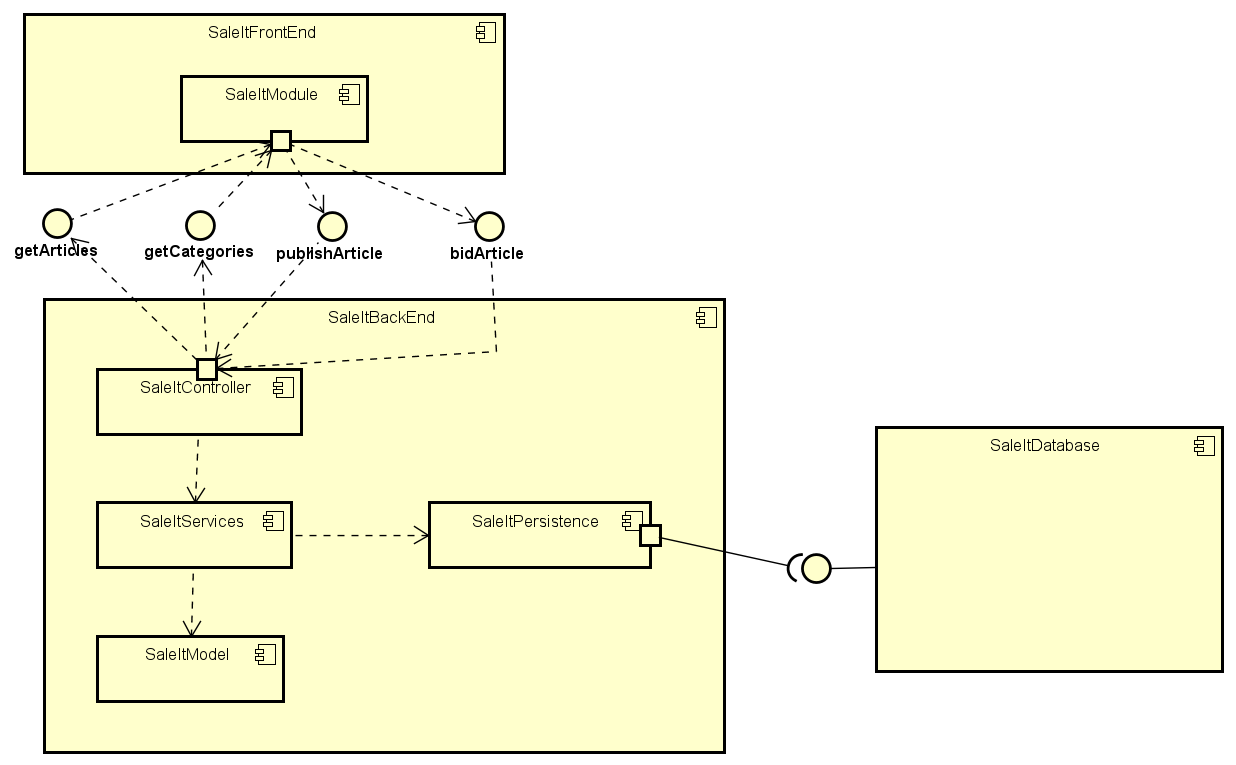
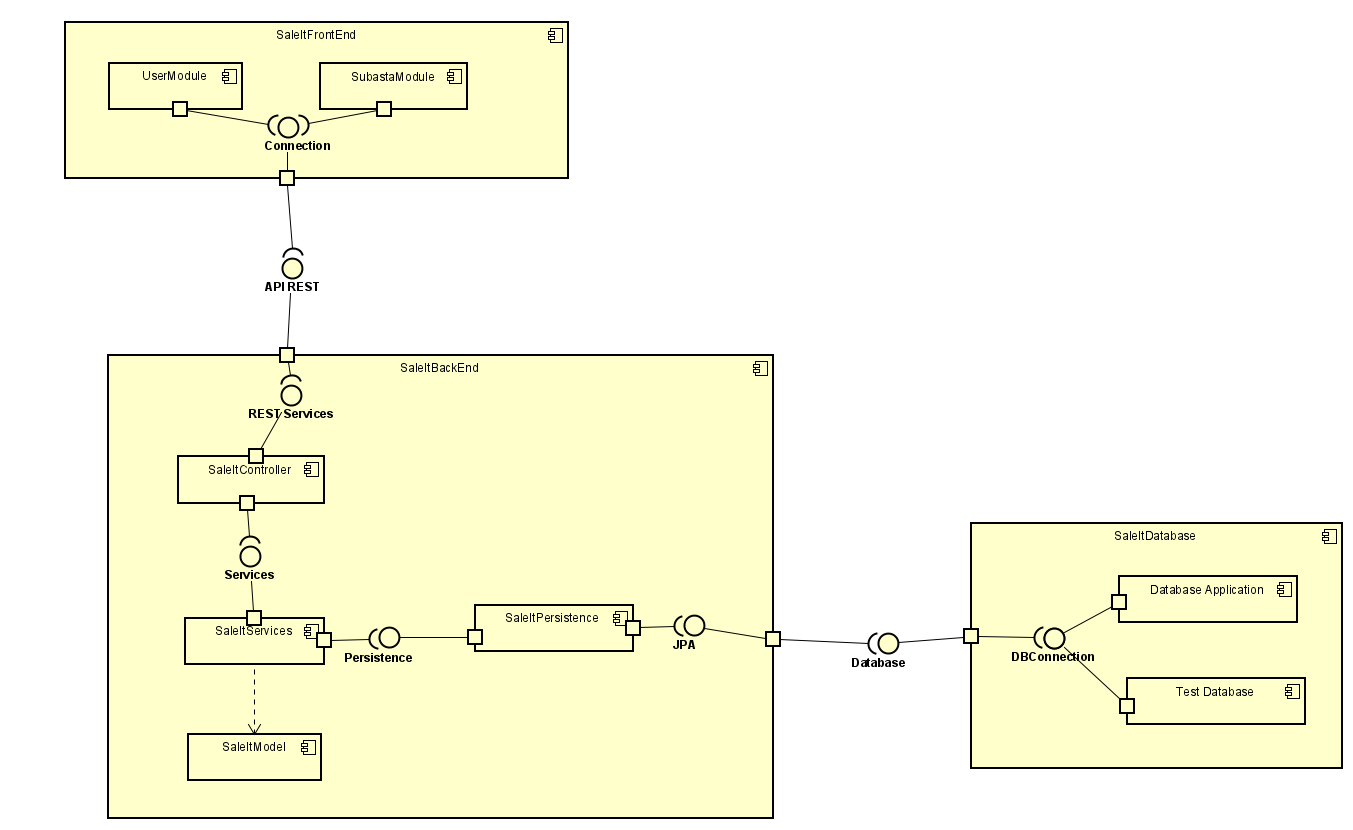
dependencia de h2 y diagrama de despliegue corregido

diff --git a/src/test/java/edu/eci/arsw/saleit/SaleItServicesTest.java b/src/test/java/edu/eci/arsw/saleit/SaleItServicesTest.java
@@ -1,17 +1,36 @@
 package edu.eci.arsw.saleit;
 
+import edu.eci.arsw.saleit.model.TipoDeDocumento;
+import edu.eci.arsw.saleit.model.Usuario;
+import edu.eci.arsw.saleit.services.SaleItServices;
+import edu.eci.arsw.saleit.services.SaleItServicesException;
 import org.junit.Test;
 import org.junit.runner.RunWith;
 import org.springframework.beans.factory.annotation.Autowired;
 import org.springframework.beans.factory.annotation.Qualifier;
+import org.springframework.boot.test.autoconfigure.jdbc.AutoConfigureTestDatabase;
 import org.springframework.boot.test.context.SpringBootTest;
+import org.springframework.test.context.TestPropertySource;
+import org.springframework.test.context.jdbc.Sql;
 import org.springframework.test.context.junit4.SpringRunner;
 import static org.junit.Assert.*;
 
+//@RunWith(SpringRunner.class)
+//@SpringBootTest
+//@TestPropertySource(locations = "classpath:db-test.properties")
+//@Sql("/tablas.sql")
+//@AutoConfigureTestDatabase
 public class SaleItServicesTest {
 
-    @Test
-    public void doSomething(){
 
-    }
+    @Autowired
+    private SaleItServices saleItServices;
+
+
+//    @Test
+//    public void addUser() throws SaleItServicesException {
+//        Usuario usuario = new Usuario("correo@hotmail.com", "123", "Juan Frasica", "35425999", TipoDeDocumento.CC, "3158746985");
+//        saleItServices.addUser(usuario);
+//        System.out.println(saleItServices.getAllUsers());
+//    }
 }

diff --git a/src/main/java/edu/eci/arsw/saleit/model/Usuario.java b/src/main/java/edu/eci/arsw/saleit/model/Usuario.java
@@ -37,12 +37,15 @@ public class Usuario {
     private List<Puja> listaDePujas;
 
     @OneToMany
+    @JoinColumn(name = "vendedor")
+    private List<Subasta> subastasCreadas;
+
+
+    @OneToMany
     @JoinColumn(name = "emailusuario")
     private List<Favoritos> articulosFavoritos;
 
-    @OneToMany
-    @JoinColumn(name = "vendedor")
-    private List<Subasta> subastasCreadas;
+    //@OneToMany(fetch = FetchType.EAGER)
 
     @OneToMany
     @JoinColumn(name = "emailusuario")
